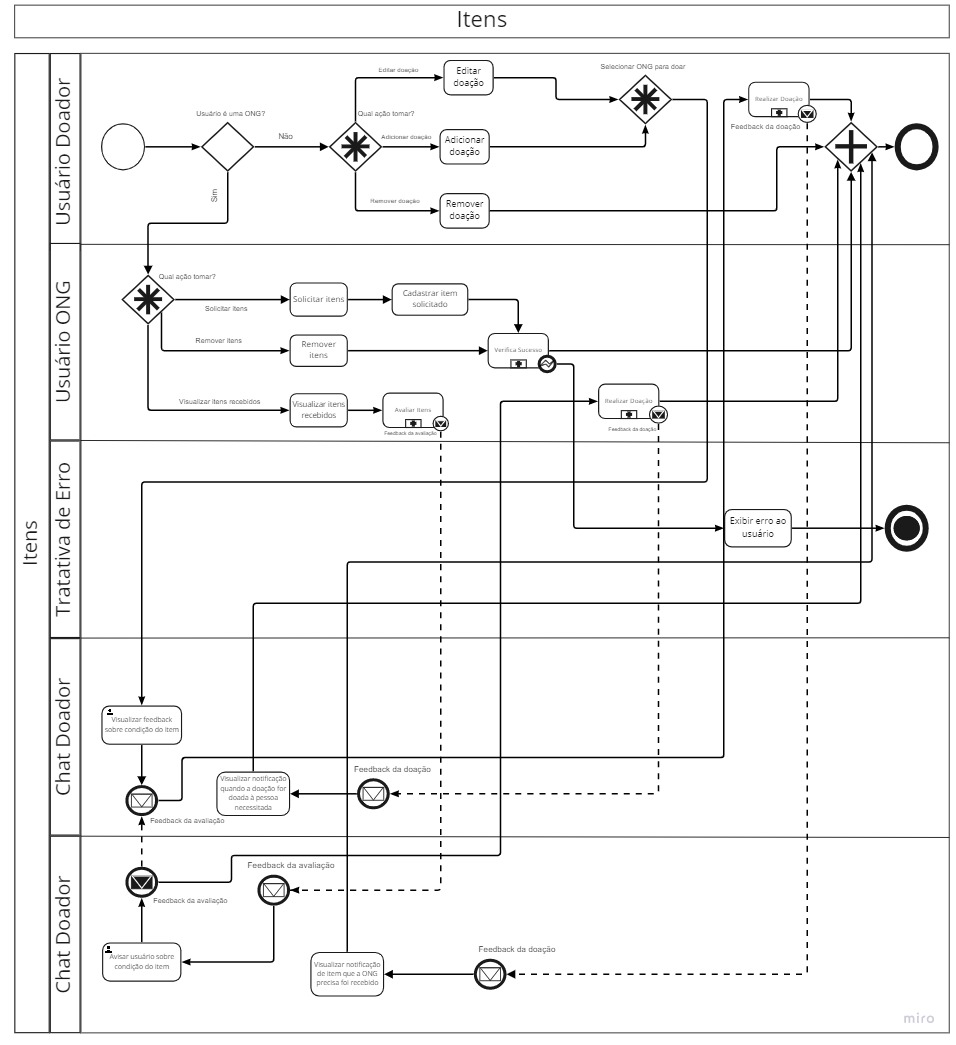
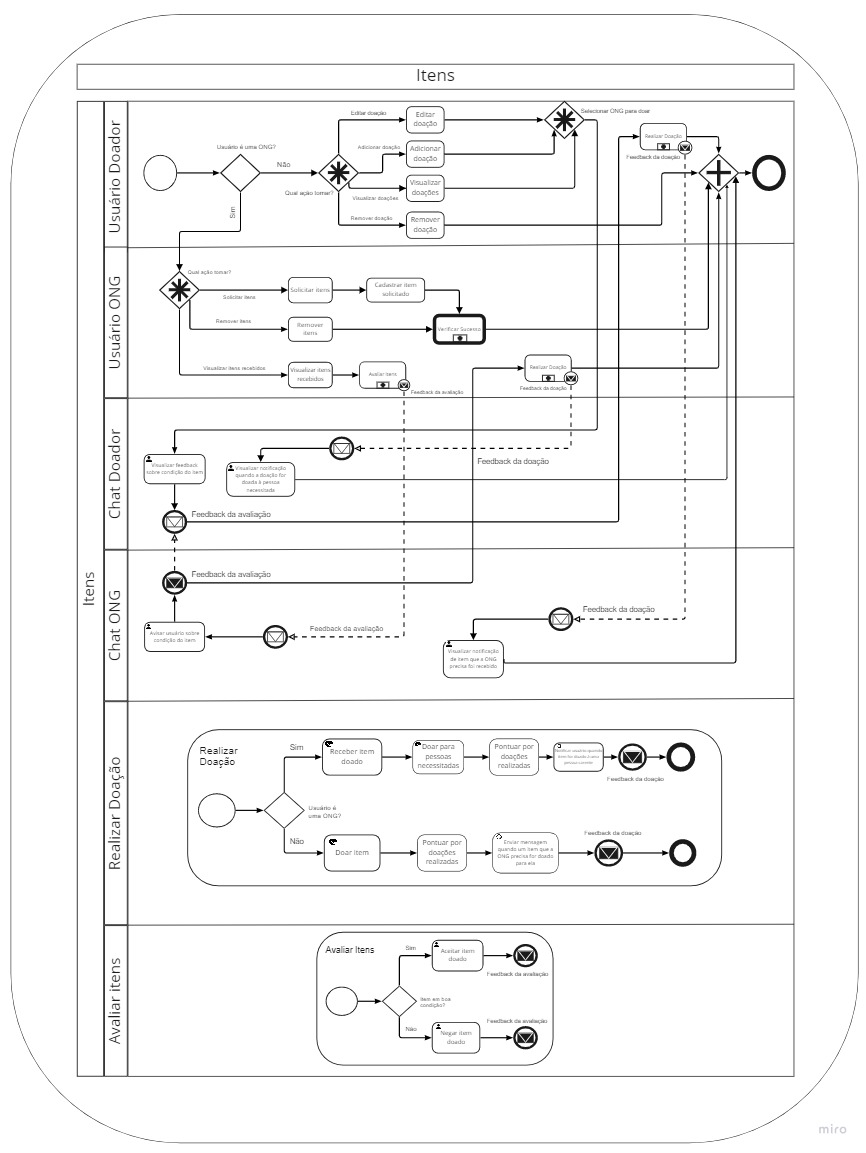
Change BPMN images

diff --git a/docs/Base/1.1.AbordagemNaoEspecifica.md b/docs/Base/1.1.AbordagemNaoEspecifica.md
@@ -169,8 +169,13 @@ Além do protótipo, na Fase 4 também construímos importantes artefatos para d
 *Imagem 23: BPMN - Interação usuário*
 
 ## Itens - Visão geral
-![BPMN - Cadastro](../imgs/BPMN-doa%C3%A7ao.jpg)
+![BPMN - Cadastro](../imgs/BPMN-itens.jpg)
 *Imagem 24: BPMN - Itens*
+*Detalhes no apêndice*
+
+## Sub processo reutilizável: Verificar Sucesso 
+![BPMN - Sub processo reutilizável: Verificar Sucesso](../imgs/BPMN-SverificaSucesso.jpg)
+*Imagem 24: BPMN - Verificar Sucesso*
 
 # 1.1.5. Apêndice
 
@@ -215,7 +220,7 @@ Além do protótipo, na Fase 4 também construímos importantes artefatos para d
 *Imagem 12: 5H2W - Quem? Como? Quanto?*
 
 ### Itens - Visão ampliada
-![BPMN - Cadastro](../imgs/BPMN-itens-UOT.jpg)
+![BPMN - Cadastro](../imgs/BPMN-itens-doadores.jpg)
 *Imagem 25: BPMN - Itens - visão ampliada*
 
 ### Itens - Visão ampliada chat
@@ -237,7 +242,8 @@ Além do protótipo, na Fase 4 também construímos importantes artefatos para d
 - SILVA, Glauco Garcia Martins Pereira. Implantando a manufatura enxuta: um método estruturado. Florianópolis: UFSC 2009. 157 p. Dissertação (Mestrado)- Programa de Pós-Graduação em Engenharia de Produção, Universidade Federal de Santa Catarina, Florianópolis, 2009.
 - Modelagem de processos com BPMN. Disponível em: https://www2.tce.pe.gov.br/eproc/images/treinamentos/ModelagemdeProcessoscomBPMN.pdf. Acesso em 21 jun 2022.
 - Noção BPMN. Disponível em: https://www.sydle.com/br/blog/notacao-bpmn-5ef510823130175de40cc4c2/. Acesso em 21 jun 2022.   
-
+- Modelagem BPMN. Disponível em: https://aprender3.unb.br/pluginfile.php/2083401/mod_label/intro/Arquitetura%20e%20Desenho%20de%20software%20-%20Aula%20BPMN%20Exemplos%20-%20Profa.%20Milene.pdf. Acesso em 24 jun 2022.
+- Um guia para iniciar estudos em bpmn e atividades e sequencia. Disponível em: http://blog.iprocess.com.br/2012/11/um-guia-para-iniciar-estudos-em-bpmn-i-atividades-e-sequencia/. Acesso em 24 jun 2022.
 
 <!-- Estudar o domínio de aplicações similares, e realizar Design Sprint para levantamento dos principais artefatos e requisitos.
 
